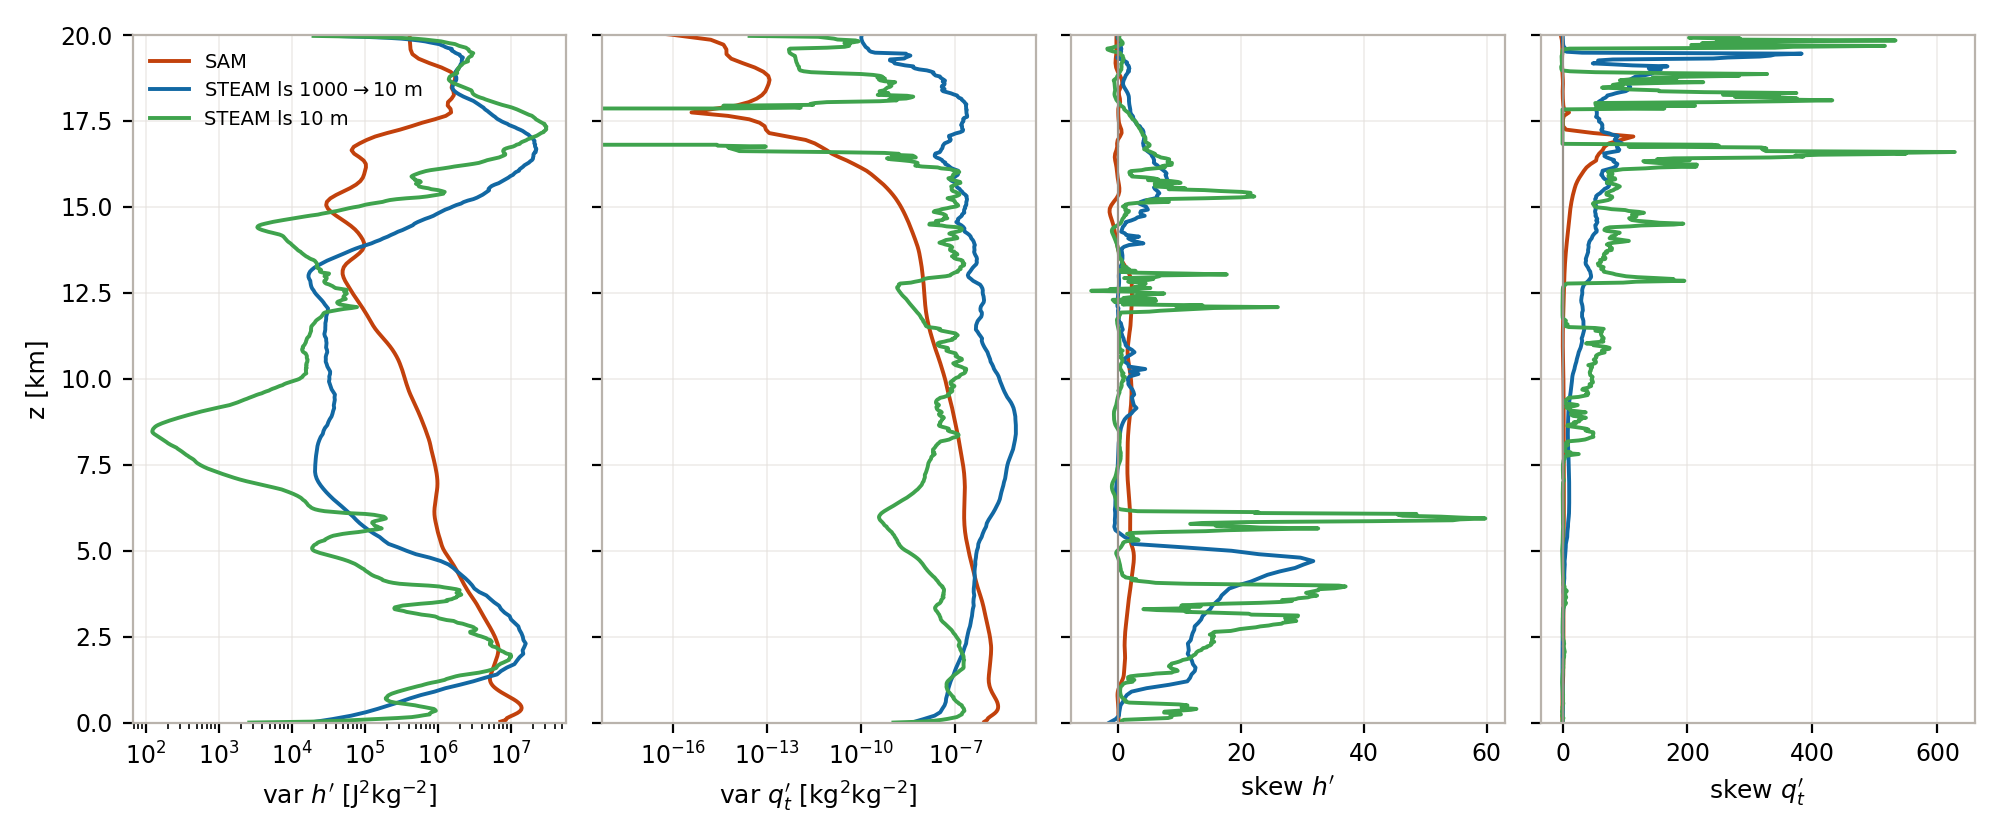
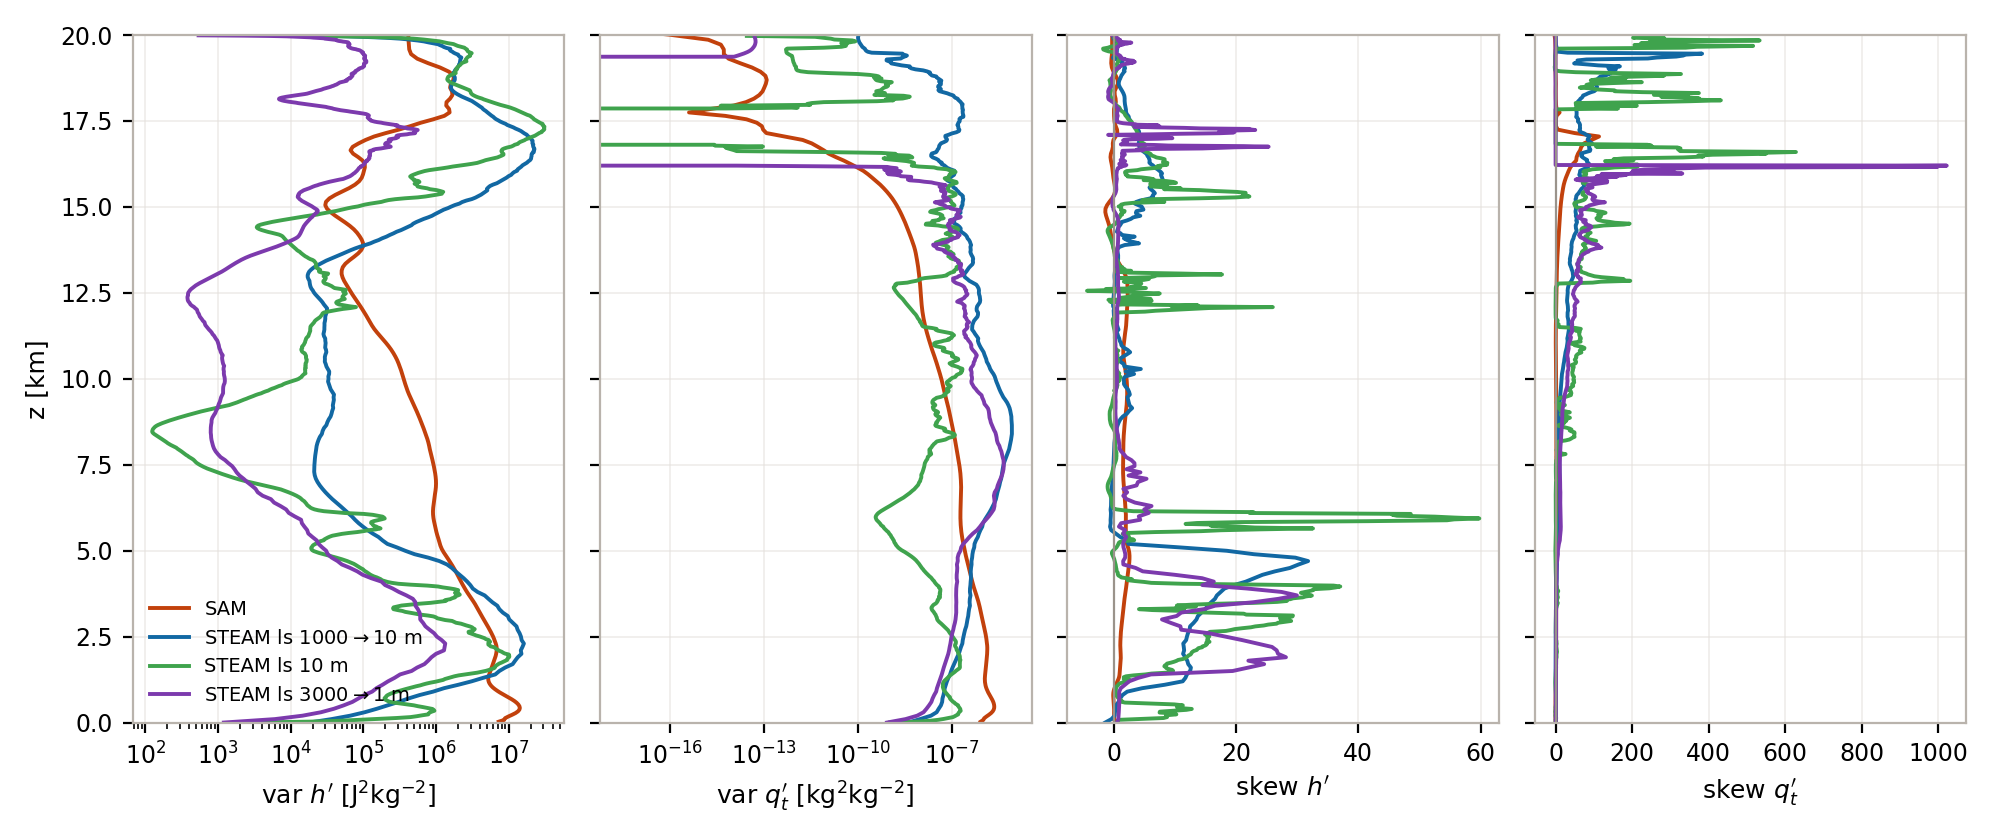
firstlook: ls 3000->1 m case; vertical Mexican-hat fluctuation functions
Fourth case (spheroscale log-linear 3000 m -> 1 m over 20 km) fixes the
anvil CF shape. New vertical_fluctuations.py: along-z F1 (Mexican hat) of
the 3D field vs the horizontal-mean profile in 0-5/5-10/10-15 km bands;
the crossing estimates the vertical outer scale. SAM's is ~constant
(order 1 km) with height; STEAM's swings with the spheroscale profile.

diff --git a/firstlook/vertical_fluctuations.py b/firstlook/vertical_fluctuations.py
@@ -1,0 +1,178 @@
+#!/usr/bin/env python3
+"""Vertical Mexican-hat fluctuation functions: 3D field vs mean profile.
+
+For z-bands 0-5, 5-10, 10-15 km, computes the vertical (along-z) first-order
+Mexican-hat fluctuation function of (1) the full 3D field and (2) the 1D
+horizontally-averaged profile, for qt and h, all cases. The idea: the lag
+where the 3D-field curve descends to the profile curve marks the vertical
+outer scale of the turbulent fluctuations (below it the 3D fluctuations are
+dominated by turbulence; above it by the mean profile's vertical structure).
+
+Grids are nonuniform in z, so each band is interpolated to a uniform grid at
+the band's median dz first. Mexican-hat kernels span ~5.8x the lag, so the
+largest reachable lag in a 5 km band is ~860 m -- curves that haven't met by
+then have a vertical outer scale beyond the band's reach.
+
+Writes vertical_fluct_<tag>.npz per case (run with case args like
+compute_stats.py) and figs/vertical_fluctuations.png (run with "figure").
+"""
+
+import sys
+
+import netCDF4
+import numpy as np
+import scaleinvariance
+
+from steam.constants import specific_heat_dry_air as cp
+
+SAM = "/run/media/thomas/Expansion/hydrodynamic-model-output/SAM-TWPICE"
+STAMP = "0000003450"
+BANDS_M = ((0.0, 5000.0), (5000.0, 10000.0), (10000.0, 15000.0))
+
+scaleinvariance.set_backend("torch")
+scaleinvariance.set_device("cuda")
+scaleinvariance.set_numerical_precision("float64")
+
+
+def interpolate_band(field, z, z_lo, z_hi):
+    """Field and mean profile on a uniform z grid (median-dz) inside a band."""
+    inside = (z >= z_lo) & (z <= z_hi)
+    dz_uniform = float(np.median(np.diff(z[inside])))
+    z_uniform = np.arange(z_lo, z_hi + 0.5 * dz_uniform, dz_uniform)
+    z_uniform = z_uniform[(z_uniform >= z[0]) & (z_uniform <= z[-1])]
+
+    indices = np.searchsorted(z, z_uniform, side="right") - 1
+    indices = np.clip(indices, 0, z.size - 2)
+    weight = (z_uniform - z[indices]) / (z[indices + 1] - z[indices])
+
+    band = np.empty(field.shape[:2] + (z_uniform.size,), dtype=np.float64)
+    for j, (i, w) in enumerate(zip(indices, weight)):
+        band[:, :, j] = ((1.0 - w) * field[:, :, i].astype(np.float64)
+                         + w * field[:, :, i + 1].astype(np.float64))
+    profile = band.mean(axis=(0, 1), dtype=np.float64)
+    return band, profile, dz_uniform
+
+
+N_CHUNKS = 8  # x-chunks for the 3D convolution (GPU memory). Averaging
+# F_1 over equal-size NaN-free chunks is exact: order 1 is a mean over
+# positions and every chunk contributes the same count per lag.
+
+
+def band_fluctuations(field, z, tag_prefix, out):
+    for z_lo, z_hi in BANDS_M:
+        band, profile, dz_uniform = interpolate_band(field, z, z_lo, z_hi)
+        chunks = np.array_split(band, N_CHUNKS, axis=0)
+        assert len({c.shape for c in chunks}) == 1
+        F_sum = None
+        for chunk in chunks:
+            lags_field, F_chunk = scaleinvariance.wavelet_fluctuation(
+                chunk, wavelet="mexican_hat", order=1, axis=2)
+            F_sum = F_chunk if F_sum is None else F_sum + F_chunk
+        F_field = F_sum / N_CHUNKS
+        lags_profile, F_profile = scaleinvariance.wavelet_fluctuation(
+            profile, wavelet="mexican_hat", order=1, axis=0)
+        key = f"{tag_prefix}_{z_lo / 1000:.0f}-{z_hi / 1000:.0f}"
+        out[f"{key}_dz"] = dz_uniform
+        out[f"{key}_lags_field"] = lags_field * dz_uniform
+        out[f"{key}_F_field"] = F_field
+        out[f"{key}_lags_profile"] = lags_profile * dz_uniform
+        out[f"{key}_F_profile"] = F_profile
+        print(f"  {key}: dz={dz_uniform:.0f} m, "
+              f"max field lag={np.nanmax(lags_field) * dz_uniform:.0f} m")
+
+
+def reduce_case(h, qt, z, tag):
+    out = {}
+    band_fluctuations(qt, z, "qt", out)
+    band_fluctuations(h, z, "h", out)
+    np.savez(f"vertical_fluct_{tag}.npz", **out)
+    print(f"wrote vertical_fluct_{tag}.npz")
+
+
+def sam():
+    ds = netCDF4.Dataset(f"{SAM}/OUT_3D.MSE/TWPICE_LPT_3D_MSE_{STAMP}.nc")
+    ds.set_auto_mask(False)
+    z = ds.variables["z"][:].astype(np.float64)
+    h = ds.variables["MSE"][0].astype(np.float32) * np.float32(cp)
+    ds.close()
+
+    def read(var):
+        ds = netCDF4.Dataset(f"{SAM}/OUT_3D.{var}/TWPICE_LPT_3D_{var}_{STAMP}.nc")
+        ds.set_auto_mask(False)
+        field = ds.variables[var][0].astype(np.float32) / np.float32(1000.0)
+        ds.close()
+        return field
+
+    qt = read("QV")
+    qt += read("QC")
+    qt += read("QI")
+    reduce_case(h, qt, z, "sam")
+
+
+def steam(path, tag):
+    ds = netCDF4.Dataset(path)
+    ds.set_auto_mask(False)
+    z = ds.variables["z"][:].astype(np.float64)
+    h = ds.variables["h"][:]
+    qt = ds.variables["qt"][:]
+    ds.close()
+    reduce_case(h, qt, z, tag)
+
+
+def figure():
+    import matplotlib
+    matplotlib.use("Agg")
+    import matplotlib.pyplot as plt
+
+    plt.rcParams.update({
+        "font.size": 8.5, "axes.titlesize": 9.5, "axes.labelsize": 9,
+        "axes.edgecolor": "#B9B3AC", "axes.linewidth": 0.8,
+        "grid.color": "#E5E1DC", "grid.linewidth": 0.6,
+        "legend.frameon": False, "figure.dpi": 200,
+    })
+    cases = [
+        ("sam", "SAM", "#C2410C"),
+        ("steam", "STEAM ls 1000$\\to$10 m", "#1268A3"),
+        ("steam_ls10", "STEAM ls 10 m", "#3FA34D"),
+        ("steam_ls3000_1", "STEAM ls 3000$\\to$1 m", "#7C3AAD"),
+    ]
+    data = [(np.load(f"vertical_fluct_{tag}.npz"), label, color)
+            for tag, label, color in cases]
+
+    fig, axes = plt.subplots(2, 3, figsize=(10.5, 6.4))
+    for row, name, symbol in [(0, "qt", "q_t"), (1, "h", "h")]:
+        for col, (z_lo, z_hi) in enumerate(BANDS_M):
+            ax = axes[row, col]
+            key = f"{name}_{z_lo / 1000:.0f}-{z_hi / 1000:.0f}"
+            for d, label, color in data:
+                ax.loglog(d[f"{key}_lags_field"], d[f"{key}_F_field"],
+                          color=color, lw=1.5, label=f"{label} 3D")
+                ax.loglog(d[f"{key}_lags_profile"], d[f"{key}_F_profile"],
+                          color=color, lw=1.0, ls="--",
+                          label=f"{label} profile")
+            ax.set_title(f"${symbol}$,  {z_lo / 1000:.0f}$-${z_hi / 1000:.0f} km")
+            ax.grid(True, which="both", alpha=0.5)
+            if row == 1:
+                ax.set_xlabel("vertical lag [m]")
+            if col == 0:
+                ax.set_ylabel(f"$F_1$ (Mexican hat, z) of ${symbol}$")
+    handles, labels = axes[0, 0].get_legend_handles_labels()
+    fig.legend(handles, labels, loc="lower center", ncol=4, fontsize=6.5)
+    fig.tight_layout(rect=(0, 0.07, 1, 1))
+    fig.savefig("figs/vertical_fluctuations.png")
+    print("wrote figs/vertical_fluctuations.png")
+
+
+if __name__ == "__main__":
+    wanted = sys.argv[1:] or [
+        "sam", "steam", "steam_ls10", "steam_ls3000_1", "figure"]
+    if "sam" in wanted:
+        sam()
+    if "steam" in wanted:
+        steam("steam_twpice.nc", "steam")
+    if "steam_ls10" in wanted:
+        steam("steam_twpice_ls10.nc", "steam_ls10")
+    if "steam_ls3000_1" in wanted:
+        steam("steam_twpice_ls3000_1.nc", "steam_ls3000_1")
+    if "figure" in wanted:
+        figure()

diff --git a/firstlook/run_twpice_ls3000_1.py b/firstlook/run_twpice_ls3000_1.py
@@ -1,0 +1,73 @@
+#!/usr/bin/env python3
+"""Steep-spheroscale variant of the canonical TWPICE STEAM run.
+
+Identical to run_twpice.py except the spheroscale profile: log-linear from
+3000 m at the surface to 1 m at the 20 km top (one decade per ~5.7 km;
+~440 m at 5 km, ~65 m at 10 km, ~9.7 m at 15 km). Steeper decay than the
+canonical 1000 -> 10 m case, with a larger boundary-layer spheroscale.
+
+Grid follows the ls10 lesson: the fine spheroscale aloft deepens the finest
+z-grid, so run at 1024 x 1024 (one outer-scale tile per direction) to stay
+inside host memory.
+
+RUN SANDBOXED (see run_twpice.py):
+
+    systemd-run --user --scope -p MemoryMax=32G -p MemorySwapMax=2G \
+        /usr/bin/time -v uv run python -u run_twpice_ls3000_1.py
+"""
+
+import time
+
+import netCDF4
+import numpy as np
+
+from steam.simulate import simulate
+from steam.thermodynamics import compute_diagnostics
+from steam.constants import specific_heat_dry_air as cp
+
+PROFILE_DZ = 50.0
+DOMAIN_HEIGHT = 20000.0
+SPHEROSCALE_SURFACE = 3000.0
+SPHEROSCALE_TOP = 1.0
+SEED = 20260714
+OUTPUT = "steam_twpice_ls3000_1.nc"
+
+src = netCDF4.Dataset("../profiles/twpice_mean_profiles.nc")
+z_sam = src.variables["z"][:].astype(np.float64)
+h_sam = src.variables["h"][:].astype(np.float64)
+qt_sam = src.variables["qt"][:].astype(np.float64)
+surface_pressure = float(src.surface_pressure)
+src.close()
+
+z_uniform = np.arange(0.0, DOMAIN_HEIGHT + PROFILE_DZ, PROFILE_DZ)
+h_profile = np.interp(z_uniform, z_sam, h_sam)
+qt_profile = np.interp(z_uniform, z_sam, qt_sam)
+
+spheroscale = SPHEROSCALE_SURFACE * (
+    SPHEROSCALE_TOP / SPHEROSCALE_SURFACE) ** (z_uniform / DOMAIN_HEIGHT)
+
+h_min = h_profile.min() - 10 * cp
+h_max = h_profile.max() + 10 * cp
+
+started = time.perf_counter()
+simulate(
+    h_profile, qt_profile,
+    nx=1024, ny=1024, dx=100.0, dy=100.0,
+    outer_scale=102400.0,
+    spheroscale=spheroscale,
+    anisotropy="piecewise_isotropic_below_spheroscale",
+    domain_height=DOMAIN_HEIGHT,
+    profile_dz=PROFILE_DZ,
+    output_path=OUTPUT,
+    surface_pressure=surface_pressure,
+    seed=SEED,
+    h_min=h_min, h_max=h_max,
+    qt_min=0.0, qt_max=0.03,
+    compress=True,
+    device="cuda",
+)
+print(f"simulate: {time.perf_counter() - started:.0f} s")
+
+started = time.perf_counter()
+compute_diagnostics(OUTPUT, compress=True)
+print(f"diagnostics: {time.perf_counter() - started:.0f} s")

diff --git a/firstlook/make_figures.py b/firstlook/make_figures.py
@@ -29,6 +29,7 @@ CASES = [  # (npz tag, label, color)
     ("sam", "SAM", "#C2410C"),
     ("steam", "STEAM ls 1000$\\to$10 m", "#1268A3"),
     ("steam_ls10", "STEAM ls 10 m", "#3FA34D"),
+    ("steam_ls3000_1", "STEAM ls 3000$\\to$1 m", "#7C3AAD"),
 ]
 data = [(np.load(f"{tag}_stats.npz"), label, color)
         for tag, label, color in CASES]
@@ -148,7 +149,7 @@ def extent_km(a):
     return [0, a.shape[0] * DX / 1000, 0, a.shape[1] * DX / 1000]
 
 
-fig, axes = plt.subplots(1, 3, figsize=(12.6, 4.4))
+fig, axes = plt.subplots(1, len(data), figsize=(4.2 * len(data), 4.4))
 limit = np.percentile(np.abs(np.concatenate(
     [d["qt_slice"].ravel() for d, _, _ in data])), 99.5)
 for ax, (d, label, _) in zip(axes, data):
@@ -161,7 +162,7 @@ fig.colorbar(im, ax=axes, label="$q_t'$ [g/kg]", shrink=0.8)
 fig.savefig("figs/qt_cross_section.png", bbox_inches="tight")
 plt.close(fig)
 
-fig, axes = plt.subplots(1, 3, figsize=(12.6, 4.4))
+fig, axes = plt.subplots(1, len(data), figsize=(4.2 * len(data), 4.4))
 vmax = np.percentile(np.concatenate(
     [d["column_condensate"].ravel() for d, _, _ in data]), 99.5)
 for ax, (d, label, _) in zip(axes, data):

diff --git a/firstlook/compute_stats.py b/firstlook/compute_stats.py
@@ -11,8 +11,8 @@ column-integrated condensate.
 SAM 3D fields are float32 (MSE float64 on disk); every K-scale reduction uses
 a float64 accumulator (see CLAUDE.md gotcha).
 
-Usage: python compute_stats.py [sam] [steam] [steam_ls10]
-       (no args = all three)
+Usage: python compute_stats.py [sam] [steam] [steam_ls10] [steam_ls3000_1]
+       (no args = all cases)
 """
 
 import sys
@@ -156,10 +156,12 @@ def steam(path="steam_twpice.nc", tag="steam"):
 
 
 if __name__ == "__main__":
-    wanted = sys.argv[1:] or ["sam", "steam", "steam_ls10"]
+    wanted = sys.argv[1:] or ["sam", "steam", "steam_ls10", "steam_ls3000_1"]
     if "sam" in wanted:
         sam()
     if "steam" in wanted:
         steam()
     if "steam_ls10" in wanted:
         steam("steam_twpice_ls10.nc", "steam_ls10")
+    if "steam_ls3000_1" in wanted:
+        steam("steam_twpice_ls3000_1.nc", "steam_ls3000_1")
